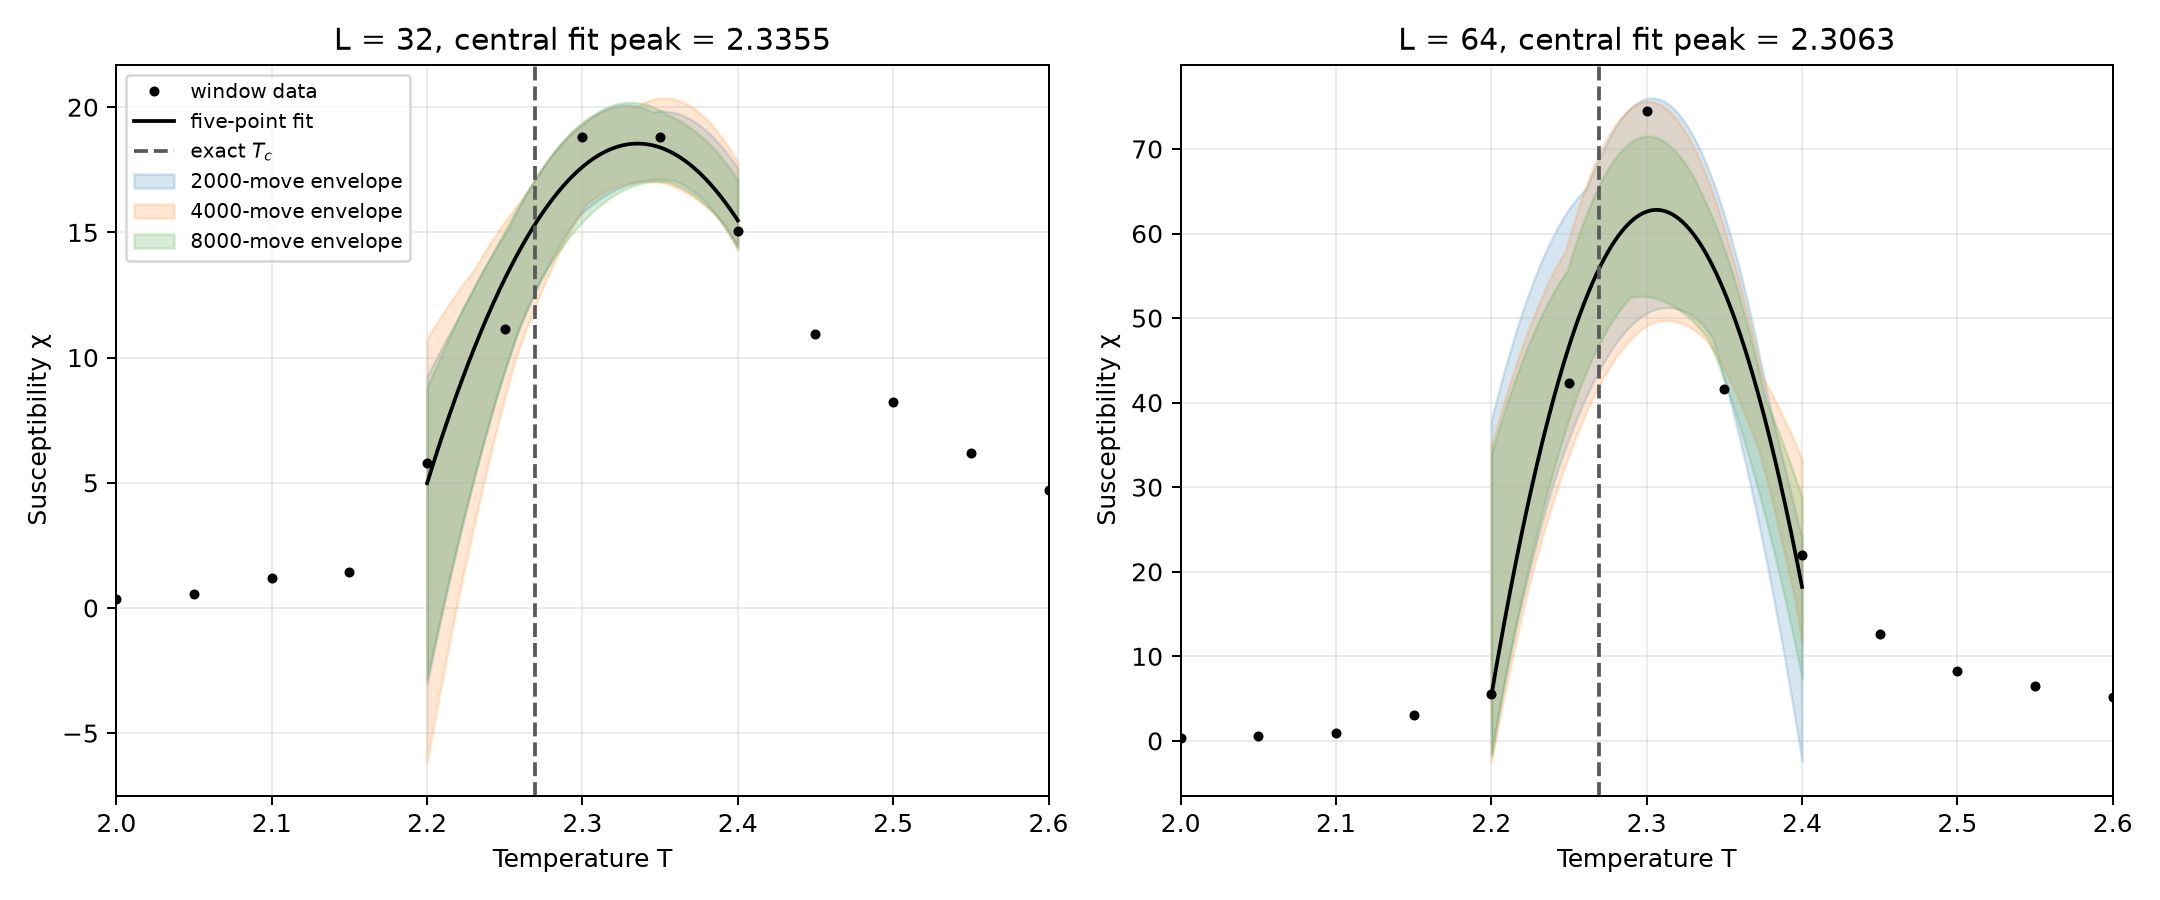
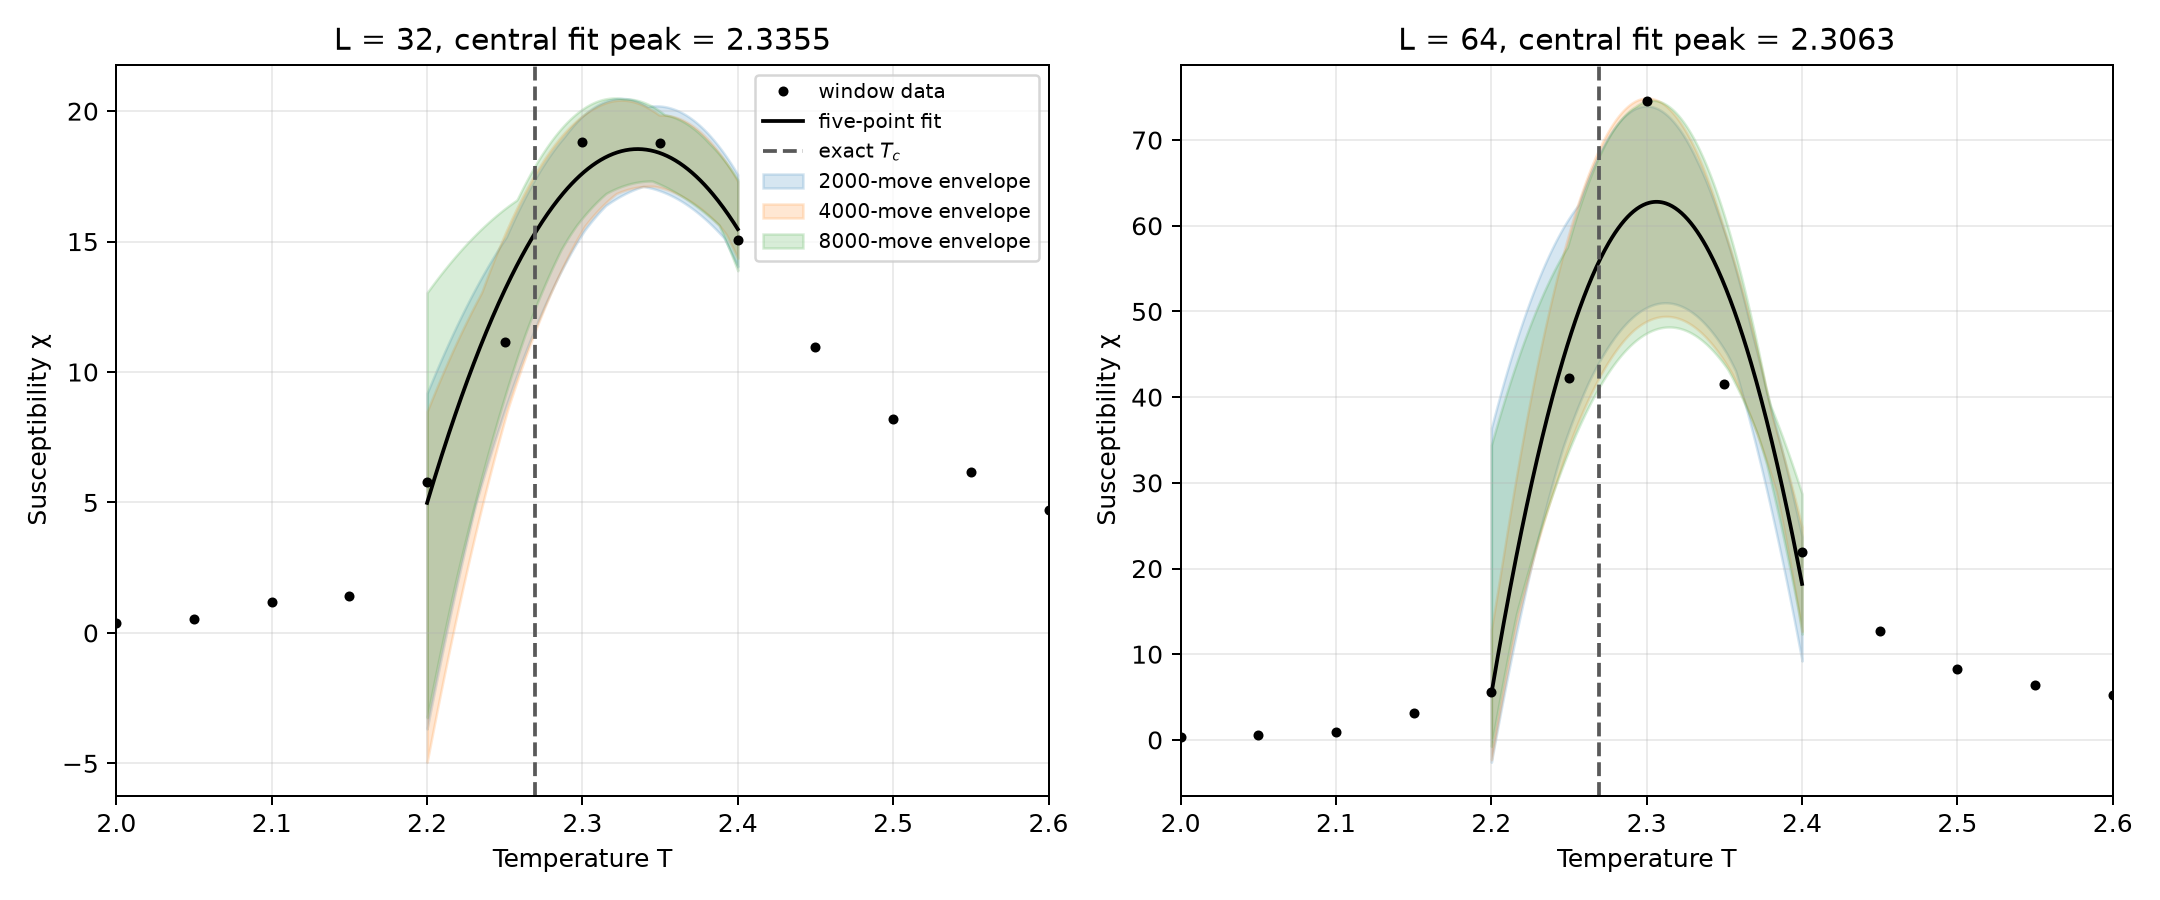
Correct Week 3 bootstrap uncertainty and add viewer evidence
Resample each temperature independently in susceptibility peak bootstraps. Update the Metropolis and Wolff uncertainty verdicts, add a regression test, and include the three course-viewer captures. Python bootstrap tests passed; the private-browser viewer link loaded without login.

diff --git a/week3/scripts/chi_bootstrap.py b/week3/scripts/chi_bootstrap.py
@@ -86,15 +86,17 @@ def bootstrap_fits(
     temperatures = np.asarray(sorted(data), dtype=np.float64)
     stats = [block_statistics(data[temperature], block_length) for temperature in temperatures]
     rng = np.random.default_rng(seed)
-    replicate_count = stats[0].shape[0]
-    indices = rng.integers(0, replicate_count, size=(REPLICATES, replicate_count))
+    indices_by_temperature = [
+        rng.integers(0, len(block_stat), size=(REPLICATES, len(block_stat)))
+        for block_stat in stats
+    ]
     peak_temperatures = []
     coefficients = []
     failed = 0
-    for replicate_indices in indices:
+    for replicate in range(REPLICATES):
         chi_values = []
-        for temperature, block_stat in zip(temperatures, stats):
-            selected = block_stat[replicate_indices]
+        for temperature, block_stat, indices in zip(temperatures, stats, indices_by_temperature):
+            selected = block_stat[indices[replicate]]
             count = block_length * len(selected)
             mean_m = np.sum(selected[:, 0]) / count
             mean_m2 = np.sum(selected[:, 1]) / count

diff --git a/week3/tests/test_bootstrap_independence.py b/week3/tests/test_bootstrap_independence.py
@@ -1,0 +1,20 @@
+import numpy as np
+
+from scripts.chi_bootstrap import bootstrap_fits
+
+
+def test_peak_bootstrap_resamples_each_temperature_independently():
+    temperatures = np.arange(2.2, 2.41, 0.05)
+    side = 8
+    data = {}
+    for temperature in temperatures:
+        target_chi = 10.0 - 300.0 * (temperature - 2.3) ** 2
+        amplitude = np.sqrt(target_chi * temperature / (side * side * 0.25))
+        blocks = np.repeat([0.0] * 5 + [amplitude] * 5, 4)
+        data[round(float(temperature), 2)] = blocks
+
+    peaks, _, failed = bootstrap_fits(data, side, block_length=4, seed=2026)
+
+    assert len(peaks) > 100
+    assert failed < 400
+    assert np.std(peaks) > 0.002

diff --git a/week3/README.md b/week3/README.md
@@ -54,8 +54,8 @@ Run these commands from `week3/` after the corresponding data exist. The output 
 
 For `evidence/viewer-T1.8.png`, `evidence/viewer-T2.3.png`, and `evidence/viewer-T3.0.png`, load the published raw `week3/spins.jsonl` in the [course viewer](https://giggleliu.github.io/AMAT5315-2026Fall/week3-viewer.html), select each named temperature, and use **save PNG**. The corresponding **Copy link** address should also load in a private browser window.
 
-The susceptibility here is χ(T) = L²(⟨M²⟩ − ⟨|M|⟩²)/T. Verified from the recorded rows, a five-point quadratic fit around each peak gives the Metropolis estimates Tpeak(32) = 2.33553 and Tpeak(64) = 2.30633, so the two-size estimate 2 Tpeak(64) − Tpeak(32) is 2.27712. The Wolff estimates are 2.34920 and 2.31166, yielding 2.27413. Both lie within 2% of the course sheet's source-reported exact value 2.26919. At L = 64 and T = 2.3, the Wolff mean |M| is 0.43095 and the Metropolis mean is 0.42150. Their difference is 0.52 combined standard errors using 8,000-step blocks (sweeps for Metropolis, cluster moves for Wolff). The measured autocorrelation times are 4.71 cluster moves and 573.34 Metropolis sweeps. A Wolff move flips 921.64 spins on average, giving 1.06 L² spin updates per correlation time versus 573.34 for Metropolis, a factor of about 541.
+The susceptibility here is χ(T) = L²(⟨M²⟩ − ⟨|M|⟩²)/T. Verified from the recorded rows, a five-point quadratic fit around each peak gives the Metropolis estimates Tpeak(32) = 2.33553 and Tpeak(64) = 2.30633, so the two-size estimate 2 Tpeak(64) − Tpeak(32) is 2.27712. The Wolff estimates are 2.34920 and 2.31166, yielding 2.27413. Both lie within 2% of the course sheet's source-reported exact value 2.26919. At L = 64 and T = 2.3, the Wolff mean |M| is 0.43095 and the Metropolis mean is 0.42150. Their difference is 0.52 combined standard errors using 8,000-step blocks (sweeps for Metropolis, cluster moves for Wolff). The measured autocorrelation times are 4.71 cluster moves and 573.34 Metropolis sweeps. A Wolff move flips 921.64 spins on average, giving 1.06 L² spin updates per correlation time versus 573.34 for Metropolis, a factor of about 541. Independent temperature resampling gives Metropolis extrapolated Tc bootstrap errors of 0.00972, 0.00913, and 0.00930 at block lengths 2,000, 4,000, and 8,000 sweeps. The corresponding Wolff Tc errors are 0.000697, 0.000670, and 0.000702 for blocks of 2,000, 4,000, and 8,000 cluster moves. All Tc errors are in the dimensionless temperature units of the model. Both sets agree within 10% of their respective mean error, satisfying the sheet's block-length stability criterion.
 
 ## Limitations
 
-The Metropolis magnetization error at T = 2.3 varies with bootstrap block length, so the agreement between samplers is provisional. The Wolff critical-temperature bootstrap errors at block lengths 2,000, 4,000, and 8,000 moves are 0.00068, 0.00073, and 0.00050; their variation leaves that sampling error unresolved. The two-size extrapolation also leaves finite-size and peak-fit bias. Spin-update work counts flipped or proposed spins; it is not elapsed runtime.
+The Metropolis magnetization error at T = 2.3 varies with block length, so the agreement between samplers is provisional. The two-size extrapolation also leaves finite-size and peak-fit bias. Spin-update work counts flipped or proposed spins; it is not elapsed runtime.
